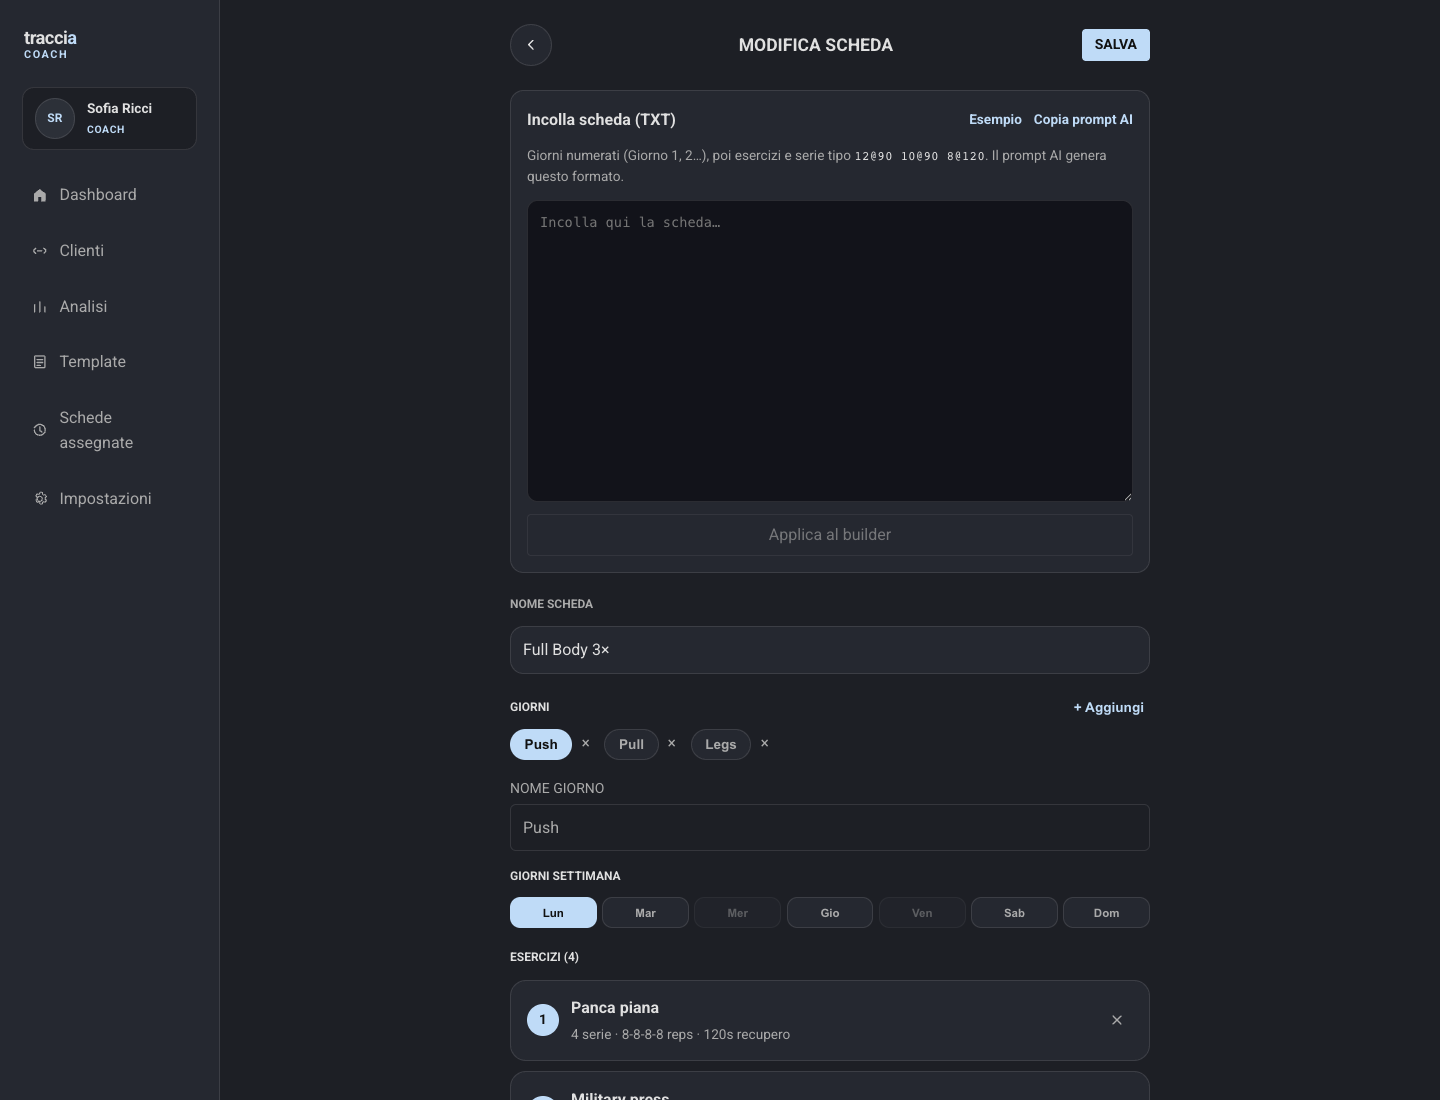
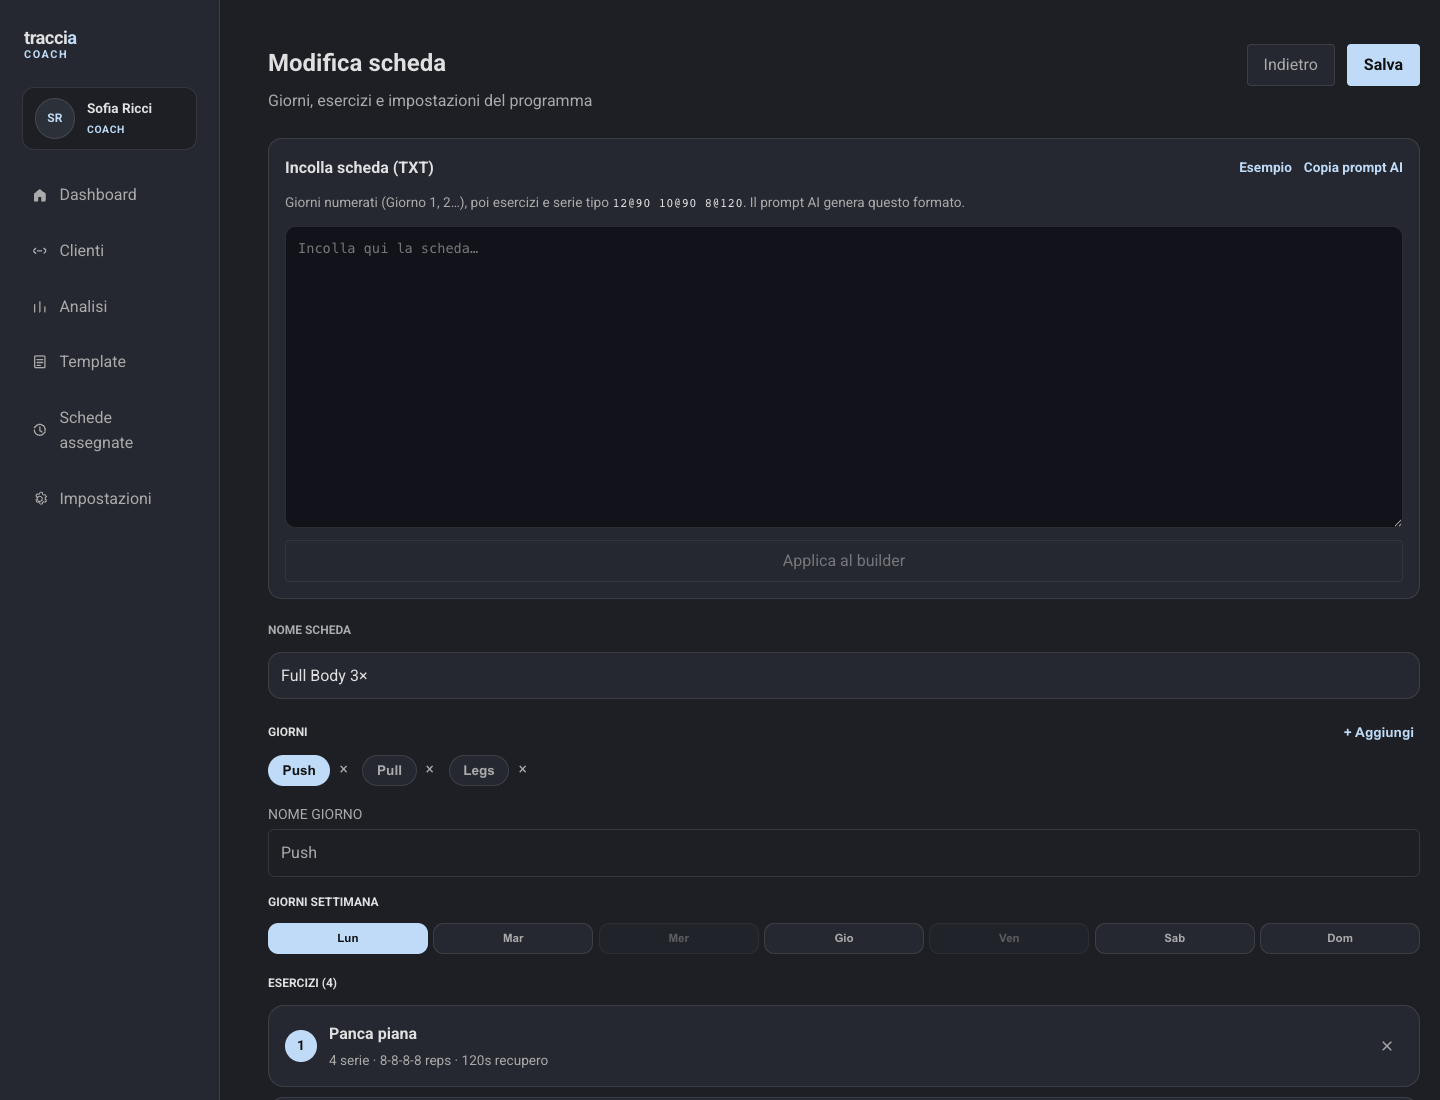
refactor(fe): align workout builder header with coach pages
Use CoachPageHeader and the wide page container so create/edit matches dashboard layout.

diff --git a/fe/src/pages/workouts/new/pageheader/PageHeader.tsx b/fe/src/pages/workouts/new/pageheader/PageHeader.tsx
@@ -1,5 +1,7 @@
 import { Link } from "wouter";
 import { Button } from "@components/button";
+import { CoachPageHeader } from "../../../coach/coachpageheader";
+import "../../../coach/style.css";
 import "./style.css";
 
 export type PageHeaderProps = {
@@ -15,33 +17,32 @@ export function PageHeader({
   mode = "create",
   backHref = "/dashboard",
 }: PageHeaderProps) {
-  return (
-    <header className="page-header">
-      <Link href={backHref} className="back" aria-label="Torna indietro">
-        <svg viewBox="0 0 24 24" aria-hidden="true">
-          <path
-            d="M15 18 9 12l6-6"
-            fill="none"
-            stroke="currentColor"
-            strokeWidth="2"
-            strokeLinecap="round"
-            strokeLinejoin="round"
-          />
-        </svg>
+  const action = (
+    <div className="page-header__actions">
+      <Link href={backHref} className="coach-btn-link coach-btn-link--secondary">
+        Indietro
       </Link>
-
-      <h1 className="title">{mode === "edit" ? "MODIFICA SCHEDA" : "CREA SCHEDA"}</h1>
-
       <Button.Root
         variant="primary"
-        size="sm"
-        className="save"
+        className="page-header__save"
         onClick={onSave}
         loading={isSaving}
         disabled={isSaving}
       >
-        <Button.Label>SALVA</Button.Label>
+        <Button.Label>Salva</Button.Label>
       </Button.Root>
-    </header>
+    </div>
+  );
+
+  return (
+    <CoachPageHeader
+      title={mode === "edit" ? "Modifica scheda" : "Crea scheda"}
+      subtitle={
+        mode === "edit"
+          ? "Giorni, esercizi e impostazioni del programma"
+          : "Nuovo template con giorni, esercizi e impostazioni"
+      }
+      action={action}
+    />
   );
 }

diff --git a/fe/src/pages/workouts/new/pageheader/style.css b/fe/src/pages/workouts/new/pageheader/style.css
@@ -1,33 +1,10 @@
-.page-header {
-  display: grid;
-  grid-template-columns: 2.5rem 1fr auto;
+.page-header__actions {
+  display: flex;
+  flex-wrap: wrap;
   align-items: center;
   gap: 0.75rem;
-  margin-bottom: 1.5rem;
+}
 
-  & .back {
-    display: inline-flex;
-    align-items: center;
-    justify-content: center;
-    width: 2.5rem;
-    height: 2.5rem;
-    border: 1px solid var(--border);
-    border-radius: 999px;
-    background: var(--surface);
-    color: var(--text-h);
-    text-decoration: none;
-
-    & svg {
-      width: 1.1rem;
-      height: 1.1rem;
-    }
-  }
-
-  & .title {
-    margin: 0;
-    font-size: 1.1rem;
-    font-weight: 700;
-    color: var(--text-h);
-    text-align: center;
-  }
+.page-header__save {
+  border-radius: 4px;
 }

diff --git a/fe/src/pages/workouts/new/createworkout/CreateWorkout.tsx b/fe/src/pages/workouts/new/createworkout/CreateWorkout.tsx
@@ -53,14 +53,14 @@ export function CreateWorkout({
 
   if (isLoading) {
     return (
-      <div className="create-workout page-container">
+      <div className="create-workout coach-page page-container page-container--wide">
         <p className="form-error">Caricamento scheda…</p>
       </div>
     );
   }
 
   return (
-    <div className="create-workout page-container">
+    <div className="create-workout coach-page page-container page-container--wide">
       <PageHeader
         mode={isEditMode ? "edit" : "create"}
         onSave={() => void save()}
